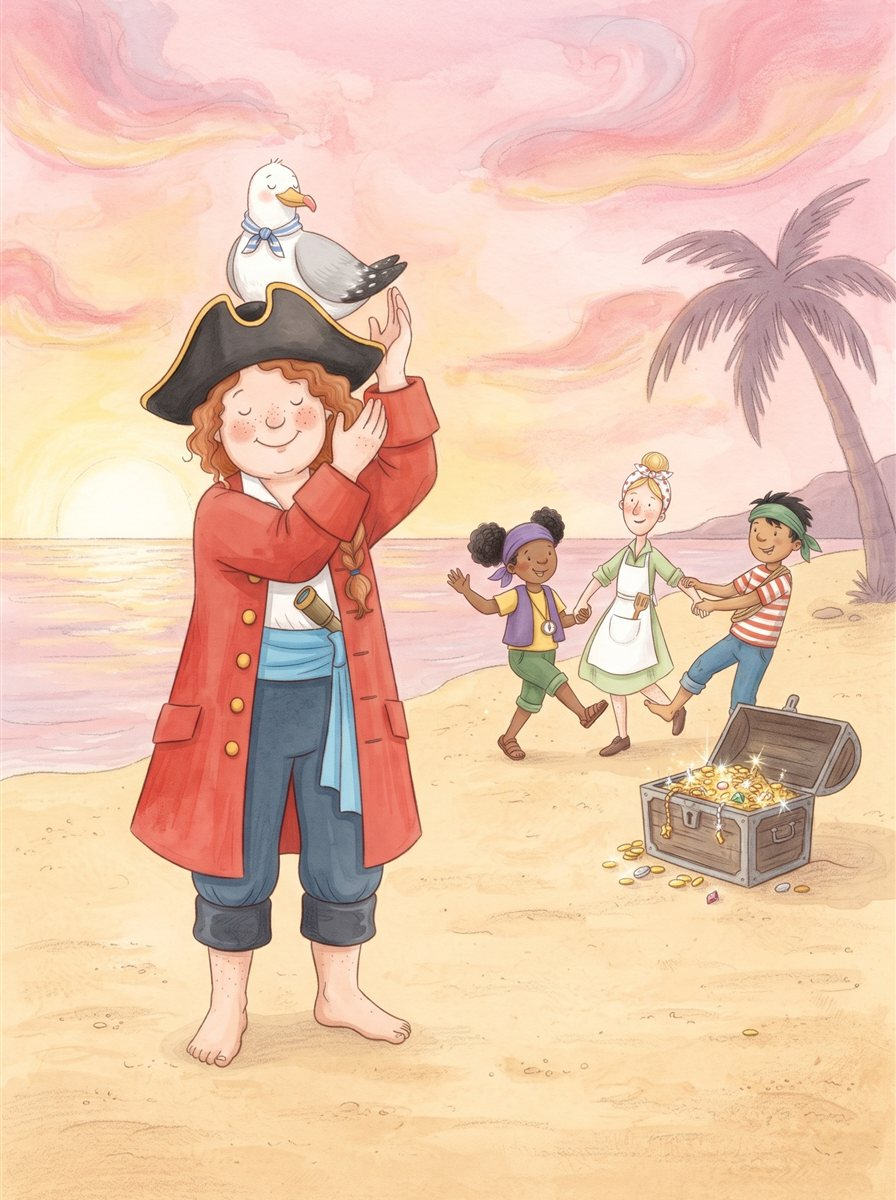
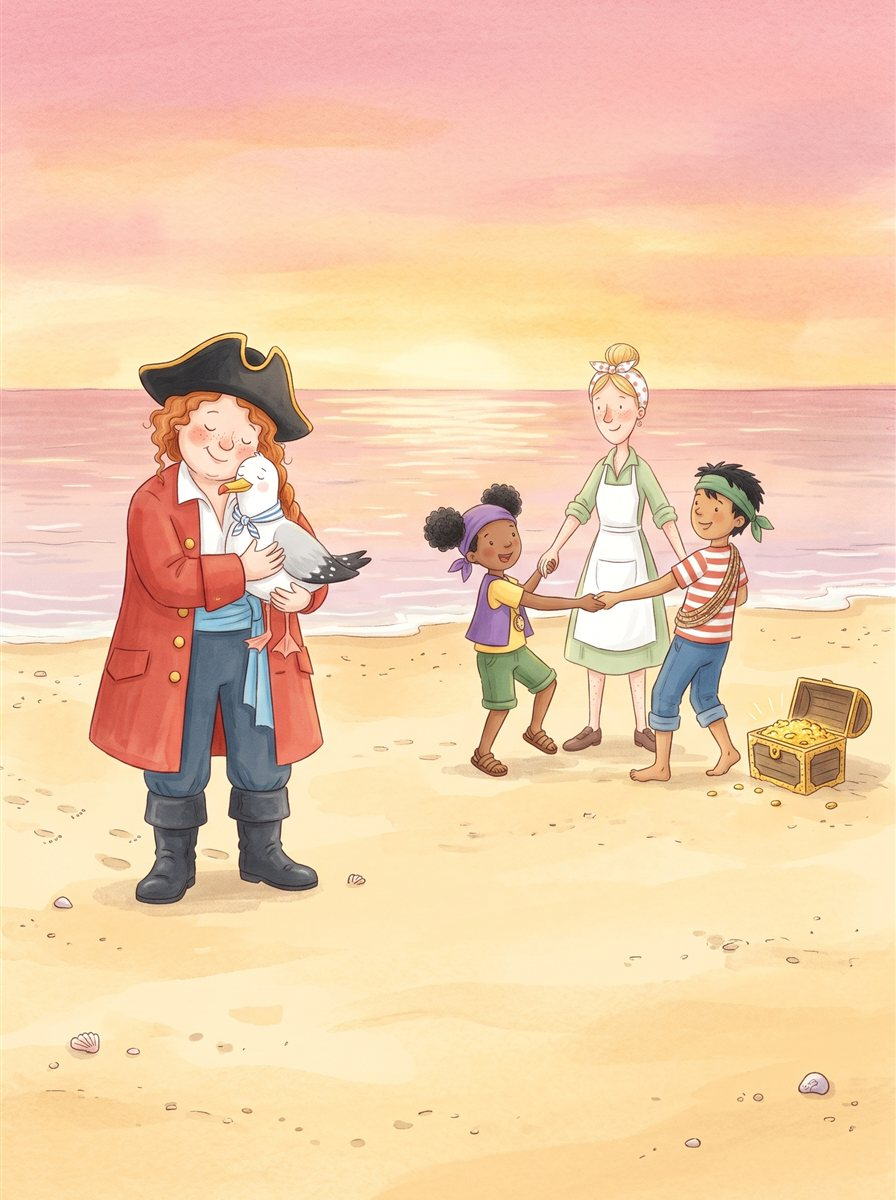
feat(dino): X Marks the Treasure high-res pictures (Slice 350)

diff --git a/content/dino/x-marks-the-treasure/art.md b/content/dino/x-marks-the-treasure/art.md
@@ -165,3 +165,24 @@ Cover: two redraw tries for ONE red cross failed (try 1 still two crosses, try 2
 Session notes (2026-10-26): Gemini shows at most about two pictures per chat before the third send is silently ignored (the request returns 200 at once and nothing draws); a fresh chat fixed it every time. The page often looks frozen after Return for 20-60 s; check `StreamGenerate` in the network log (pending = drawing) before sending again. Starting a book's pictures with 'Lovely, page n is accepted' follow-ups in one chat worked for 2 pictures. Another illustrator's download was taken by mistake once at the start (restored). All saves were done through the clipboard grab, not the download folder.
 
 Redraw session (after the full-mode review): a send is really going through only when the page shows a Stop response button; when Return leaves the text in the box, click the Send message button once and check again. Keep each picture in a fresh chat.
+
+## Slice 350 high-res run (2026-11-19, Part D1)
+
+Untouched downloads (1792x2400, scratchpad, not in the repo): `C:/Users/ashka/AppData/Local/Temp/claude/717394277bc5a198/c1bcd59c-ab93-4eda-a774-ce8a5778c961/scratchpad/xm-all/` as `orig-<page>.jpg` (recovered from `Downloads`, matched to the accepted app pictures by a 24x32 signature, distance under 1), plus `cand-8.jpg` and `cand-17c.jpg` (new). `high-res/` holds the flat q85 pack from `prepare-story-pictures.ps1 -HighRes` (cover, 1-17, back-cover, contact-sheet.jpg). The reviewer pass (D2) is not yet run.
+
+| Page | Source | Notes |
+| --- | --- | --- |
+| cover, 1-7, 9-16 | recovered original from `Downloads` | not redrawn |
+| 8 | NEW, 4 Hydrogen, chat 3ae4a31bd270ddd3, try 1, 3493502 bytes | copy of the accepted 896x1200 picture (no full-size original: the Gemini-history one had the seam). Same composition, full bleed. Izzy's feet and the barrel cross the 73% line, as in the accepted picture; kept, listed for the user |
+| 17 | NEW, 4 Hydrogen, hug fix, try 3 of 3, chat 22a7fb715a8a222c, 2684224 bytes | Kathryn hugs Seagull with both arms, hat on her head, five characters. Try 1 (chat c1d47a749b181191): hug right but Kathryn runs to the bottom edge; try 2 (chat 172230cabdc1f0ee): boots about 82%, blue boots. Try 3 kept: boot soles end about 75%, just over the 73% line, boot toes slightly blue; listed for the user |
+| back-cover | existing untouched original (2747150 bytes) | passed through -HighRes (580677 bytes) |
+
+### Reviewer, full mode, 2026-11-19 (Slice 350 D2, `dino-story-reviewer`)
+
+**PASS** (with pages listed for the user). Checked: the line-up, the small copy and `line70` overlay of the cover, pages 1-17 and the back cover in `high-res/`, full-size crops only of page 8's rope end, page 10's jar labels and page 17's hug and boots. Text, cast and back-cover credits checked again: no finding.
+
+- Page 17 (new, hug fix): the hug is right (Kathryn holds Seagull with both hands against her cheek, both eyes closed and smiling, two hands, two webbed feet, hat on her head, five characters, open chest, sunset, no flames). Only fault: Kathryn's boot soles end at about 75%, 2 points over the 73% line. The boots are dark slate, not blue (the blue seen in the overlay is its tint). It can ship as the best of 3 tries under Part D1; list it for the user.
+- Page 8 (new copy): a faithful full-bleed copy of the accepted app picture (one extra coil of rope on the deck with a frayed end, harmless). Izzy's sandals and the barrel reach about 83%, the same as the accepted picture: kept and listed for the user, as the copy rule says.
+- Accepted originals that cross the 73% line (kept, not redrawn without the user's word): cover (all feet, about 75%), 1 (front boot about 77%), 2 (Kathryn's legs are cut off at about 78% by a wooden plank strip that doesn't match the stone quay), 4 (Kathryn chest-up behind the rail, coat at about 75%), 6 (Kathryn's boots about 88%), 9 (Kathryn, the wheel, Izzy and her barrel about 83%), 10 (Polly's shoes about 77%), 11 (Polly, Kathryn's boots, Billy's feet about 80%), 13 (Kathryn, Izzy, Polly about 80%), 16 (Izzy, Seagull and Billy's feet about 75-77%).
+- Known variances still there, not blocking: the crow's nest is a tub on 7 and 13, a wicker basket on 9 and an open slatted basket on 12; the ship on 14 has several masts; the cover map has two crosses; on 14 Kathryn carries no spade and Polly carries two.
+- Back cover: five characters, the same as in the book, the chest full as on page 16, no words, the middle calm (sky and sea); Kathryn's telescope is missing from her sash (minor). The app wasn't run, so the shown credits page wasn't checked in two languages; `book.json` has `storyBy` = the user, no `retold`, no "free to share", and `namesByLanguage` in all 14 languages.
